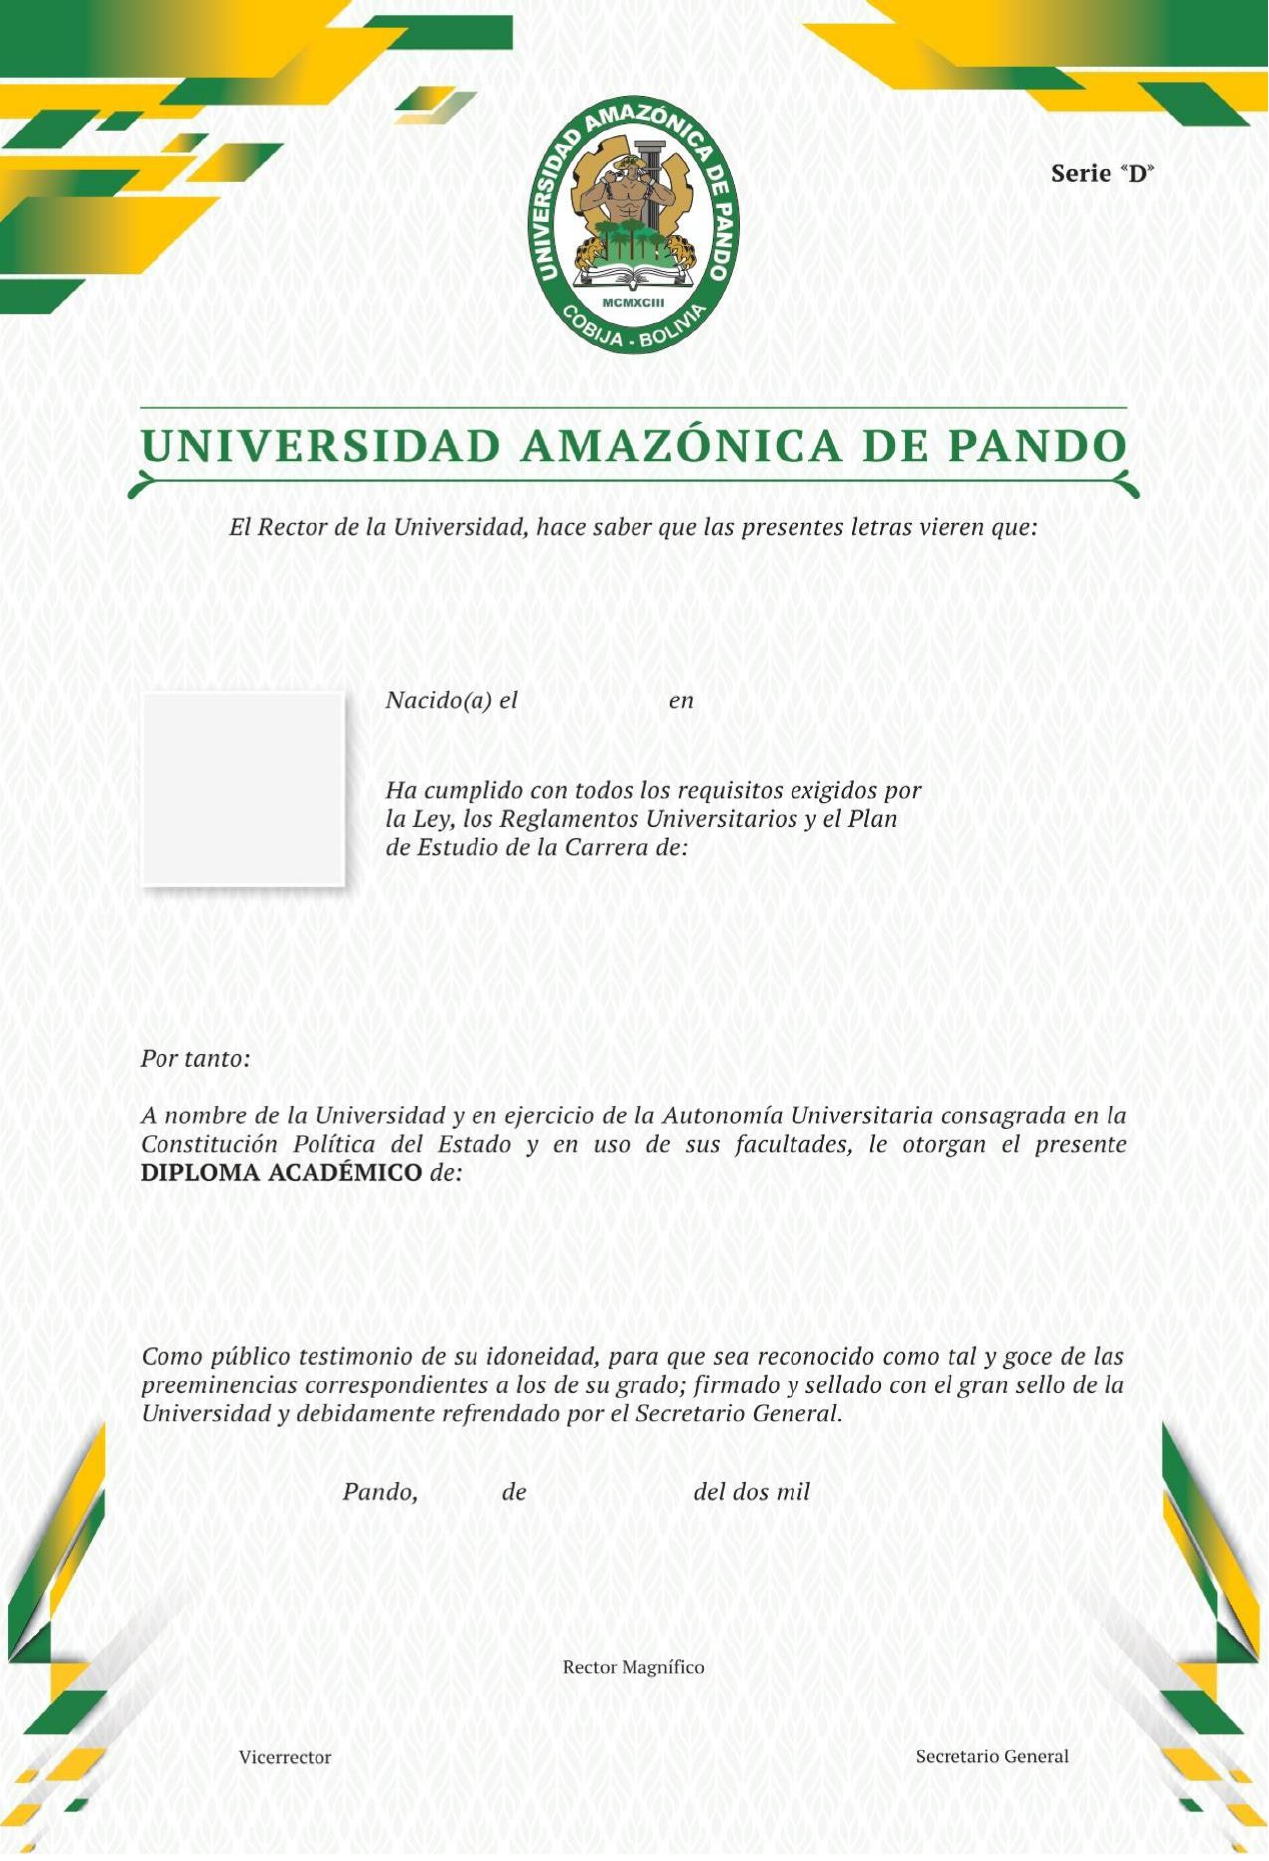
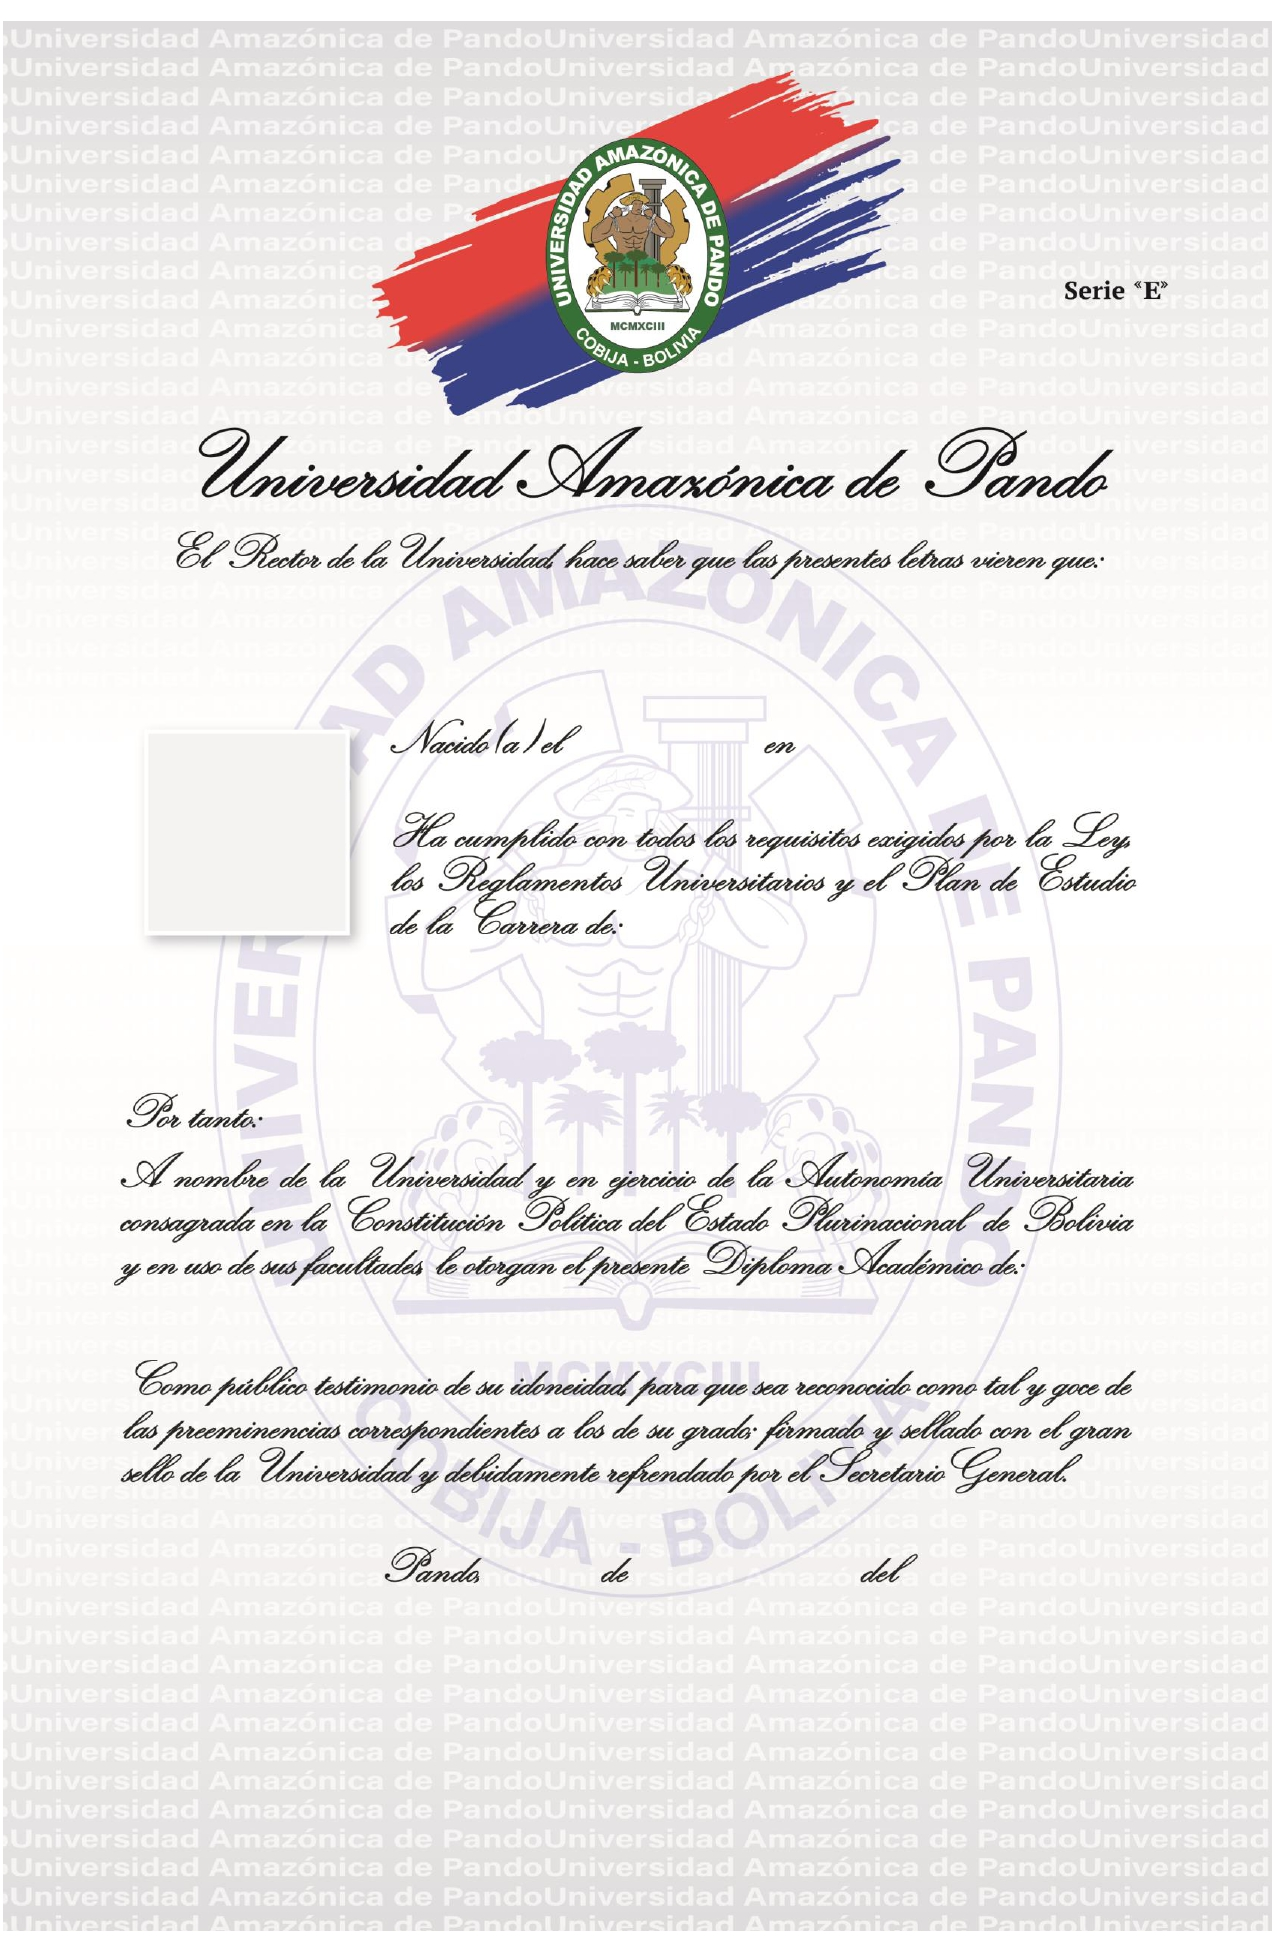
asdasdas

Changed region(s): [[0.0, 0.4675, 1.0, 0.9973], [0.0, 0.0, 1.0, 0.4987]]

diff --git a/sgtd/pasarela/src/main/resources/templates/certificado/tituloAcademico-pdf.html b/sgtd/pasarela/src/main/resources/templates/certificado/tituloAcademico-pdf.html
@@ -1,0 +1,80 @@
+<html>
+
+<head>
+    <meta http-equiv="Content-Type" content="text/html; charset=utf-8" />
+    <meta http-equiv="Content-Style-Type" content="text/css" />
+    <meta name="generator" content="Aspose.Words for .NET 22.7.0" />
+    <title></title>
+    <style>
+        @page {
+            size: 8.5in 12.8in;
+        }
+
+       
+    </style>
+</head>
+
+<body style="font-family:'Times New Roman'; font-size:12pt;  ">
+    <div>
+        <p style="margin-bottom: 90px;"></p>
+        <p style="margin-top: 120px; margin-left:468pt; margin-bottom:0pt; text-align:justify; line-height:13.4pt">
+            <span style="font-family:Arial" th:text="${nroTitulo}">123456</span>
+        </p>
+        <p style="margin-top:138.1pt; margin-bottom:0pt; text-align:center; line-height:28pt"><span
+                style="font-size:24.5pt"
+                th:text="${persona.nombre}+' '+${persona.ap_paterno}+' '+${persona.ap_materno}">MARCO ALEJANDRO CUELLAR
+                FERREIRA</span></p>
+        <p style="margin-top:24pt; margin-left:215.55pt; margin-bottom:0pt; text-align:justify; line-height:13.25pt; font-style: italic;">
+            <span style="margin-right: 40px;"></span>
+            <em><span style="margin-right: 60px;"
+                th:text="${#dates.format(persona.fecha_nacimiento, 'dd/MM/yyyy')}">31/07/1999 Andres Ibañez-Santa
+                Cruz</span></em>
+                <em><span style="margin-right: 60px;" th:text="${provincia}+'-'+${departamento}">31/07/1999 Andres Ibañez-Santa
+                Cruz</span></em>
+        </p>
+        <p style="margin-top: 130pt; margin-bottom: 0pt; text-align:center; "><span style="font-size:30.5pt"
+            th:text="${persona.gradoAcademico.carrera.nombre_carrera}"></span></p>
+        <p style="margin-top: 88pt; margin-bottom: 0pt; text-align:center; "><span style="font-size:28.5pt"
+                th:text="${persona.gradoAcademico.nombre}">Ingeniería de Sistemas Universitario</span></p>
+        <p style="margin-top: 98pt; margin-left:202pt; margin-bottom:0pt; text-align:justify; line-height:20.5pt">
+           
+            <span style="font-size:13pt; margin-right: 80px;" th:text="${dia}">18</span>
+            <span style="font-size:13pt; margin-right: 130px;"
+                th:text="${mes}">Mayo</span><span
+                style="font-size:13pt;" th:text="'Dos mil '+${gestion}">Veintitrés</span>
+        </p>
+        <p style="margin-top:40pt; margin-left:196.4pt; margin-bottom:3pt; text-align:justify; line-height:12.15pt">
+            <span style="font-size:11pt; -aw-import:spaces">&#xa0;</span><span style="font-size:11pt">MSc. Franz Navia
+                Miranda</span><span style="font-size:11pt; -aw-import:spaces">&#xa0; </span>
+        </p>
+        <p style="margin-top:0pt; margin-left:226.4pt; margin-bottom:0pt; text-align:justify; line-height:12.15pt">
+           <span style="font-size:11pt">Rector Magnífico</span>
+        </p>
+       
+        
+        <p style="margin-top:26pt; margin-left:30.25pt; margin-bottom:3pt;  line-height:9.4pt;">
+            <span style="font-size:11pt;  margin-right: 120px; ">MSc. Oscar Felipe Melgar Saucedo </span>
+            <span style="font-size:11pt; margin-left: 120px;">MSc. Ariz Humerez Alvez</span>
+           
+        </p>
+        <p style="margin-top:0pt; margin-left:78.25pt; margin-bottom:0pt;  line-height:9.4pt;">
+            <span style="font-size:11pt;  margin-right: 170px; ">Vicerrector </span>
+            <span style="font-size:11pt; margin-left: 170px;">Secretario General</span>
+           
+        </p>
+         <!--
+        <p style="margin-top:0pt; margin-left:489.3pt; margin-bottom:0pt; text-align:justify; line-height:12.15pt"><span
+                style="font-size:11pt">a.i.</span></p> -->
+         
+        <!--
+        <p style="margin-top:0pt; margin-left:200pt; margin-bottom:0pt; text-align:justify; line-height:12.15pt">
+            <strong><span th:text="${codigo}" style="font-size:9pt;  ">asd213r4efasd</span></strong> 
+        </p>
+         -->
+        <!--<span style="display: block;  font-size:8pt; margin-left:200pt; margin-top:5pt;"><strong>INCLUYE FIRMA DIGITAL AVALADO POR ADSIB</strong></span> -->
+        
+                 
+    </div>
+</body>
+
+</html>

diff --git a/sgtd/pasarela/target/classes/templates/certificado/tituloAcademico-pdf.html b/sgtd/pasarela/target/classes/templates/certificado/tituloAcademico-pdf.html
@@ -1,0 +1,80 @@
+<html>
+
+<head>
+    <meta http-equiv="Content-Type" content="text/html; charset=utf-8" />
+    <meta http-equiv="Content-Style-Type" content="text/css" />
+    <meta name="generator" content="Aspose.Words for .NET 22.7.0" />
+    <title></title>
+    <style>
+        @page {
+            size: 8.5in 12.8in;
+        }
+
+       
+    </style>
+</head>
+
+<body style="font-family:'Times New Roman'; font-size:12pt;  ">
+    <div>
+        <p style="margin-bottom: 90px;"></p>
+        <p style="margin-top: 120px; margin-left:468pt; margin-bottom:0pt; text-align:justify; line-height:13.4pt">
+            <span style="font-family:Arial" th:text="${nroTitulo}">123456</span>
+        </p>
+        <p style="margin-top:138.1pt; margin-bottom:0pt; text-align:center; line-height:28pt"><span
+                style="font-size:24.5pt"
+                th:text="${persona.nombre}+' '+${persona.ap_paterno}+' '+${persona.ap_materno}">MARCO ALEJANDRO CUELLAR
+                FERREIRA</span></p>
+        <p style="margin-top:24pt; margin-left:215.55pt; margin-bottom:0pt; text-align:justify; line-height:13.25pt; font-style: italic;">
+            <span style="margin-right: 40px;"></span>
+            <em><span style="margin-right: 60px;"
+                th:text="${#dates.format(persona.fecha_nacimiento, 'dd/MM/yyyy')}">31/07/1999 Andres Ibañez-Santa
+                Cruz</span></em>
+                <em><span style="margin-right: 60px;" th:text="${provincia}+'-'+${departamento}">31/07/1999 Andres Ibañez-Santa
+                Cruz</span></em>
+        </p>
+        <p style="margin-top: 130pt; margin-bottom: 0pt; text-align:center; "><span style="font-size:30.5pt"
+            th:text="${persona.gradoAcademico.carrera.nombre_carrera}"></span></p>
+        <p style="margin-top: 88pt; margin-bottom: 0pt; text-align:center; "><span style="font-size:28.5pt"
+                th:text="${persona.gradoAcademico.nombre}">Ingeniería de Sistemas Universitario</span></p>
+        <p style="margin-top: 98pt; margin-left:202pt; margin-bottom:0pt; text-align:justify; line-height:20.5pt">
+           
+            <span style="font-size:13pt; margin-right: 80px;" th:text="${dia}">18</span>
+            <span style="font-size:13pt; margin-right: 130px;"
+                th:text="${mes}">Mayo</span><span
+                style="font-size:13pt;" th:text="'Dos mil '+${gestion}">Veintitrés</span>
+        </p>
+        <p style="margin-top:40pt; margin-left:196.4pt; margin-bottom:3pt; text-align:justify; line-height:12.15pt">
+            <span style="font-size:11pt; -aw-import:spaces">&#xa0;</span><span style="font-size:11pt">MSc. Franz Navia
+                Miranda</span><span style="font-size:11pt; -aw-import:spaces">&#xa0; </span>
+        </p>
+        <p style="margin-top:0pt; margin-left:226.4pt; margin-bottom:0pt; text-align:justify; line-height:12.15pt">
+           <span style="font-size:11pt">Rector Magnífico</span>
+        </p>
+       
+        
+        <p style="margin-top:26pt; margin-left:30.25pt; margin-bottom:3pt;  line-height:9.4pt;">
+            <span style="font-size:11pt;  margin-right: 120px; ">MSc. Oscar Felipe Melgar Saucedo </span>
+            <span style="font-size:11pt; margin-left: 120px;">MSc. Ariz Humerez Alvez</span>
+           
+        </p>
+        <p style="margin-top:0pt; margin-left:78.25pt; margin-bottom:0pt;  line-height:9.4pt;">
+            <span style="font-size:11pt;  margin-right: 170px; ">Vicerrector </span>
+            <span style="font-size:11pt; margin-left: 170px;">Secretario General</span>
+           
+        </p>
+         <!--
+        <p style="margin-top:0pt; margin-left:489.3pt; margin-bottom:0pt; text-align:justify; line-height:12.15pt"><span
+                style="font-size:11pt">a.i.</span></p> -->
+         
+        <!--
+        <p style="margin-top:0pt; margin-left:200pt; margin-bottom:0pt; text-align:justify; line-height:12.15pt">
+            <strong><span th:text="${codigo}" style="font-size:9pt;  ">asd213r4efasd</span></strong> 
+        </p>
+         -->
+        <!--<span style="display: block;  font-size:8pt; margin-left:200pt; margin-top:5pt;"><strong>INCLUYE FIRMA DIGITAL AVALADO POR ADSIB</strong></span> -->
+        
+                 
+    </div>
+</body>
+
+</html>

diff --git a/sgtd/pasarela/src/main/java/com/example/pasarela/Controller/prueba/PdfController.java b/sgtd/pasarela/src/main/java/com/example/pasarela/Controller/prueba/PdfController.java
@@ -516,7 +516,7 @@ public class PdfController {
      context.setVariable("codigo", codigo);
      context.setVariable("plantilla", plantilla);
      // Renderizar la vista HTML utilizando Thymeleaf
-     String htmlContent = templateEngine.process("certificado/certificadoPrueba-pdf", context);
+     String htmlContent = templateEngine.process("certificado/tituloAcademico-pdf", context);
       if (usarPlantilla) {
 
         // Directorio donde se guardará el archivo PDF en el disco local C
